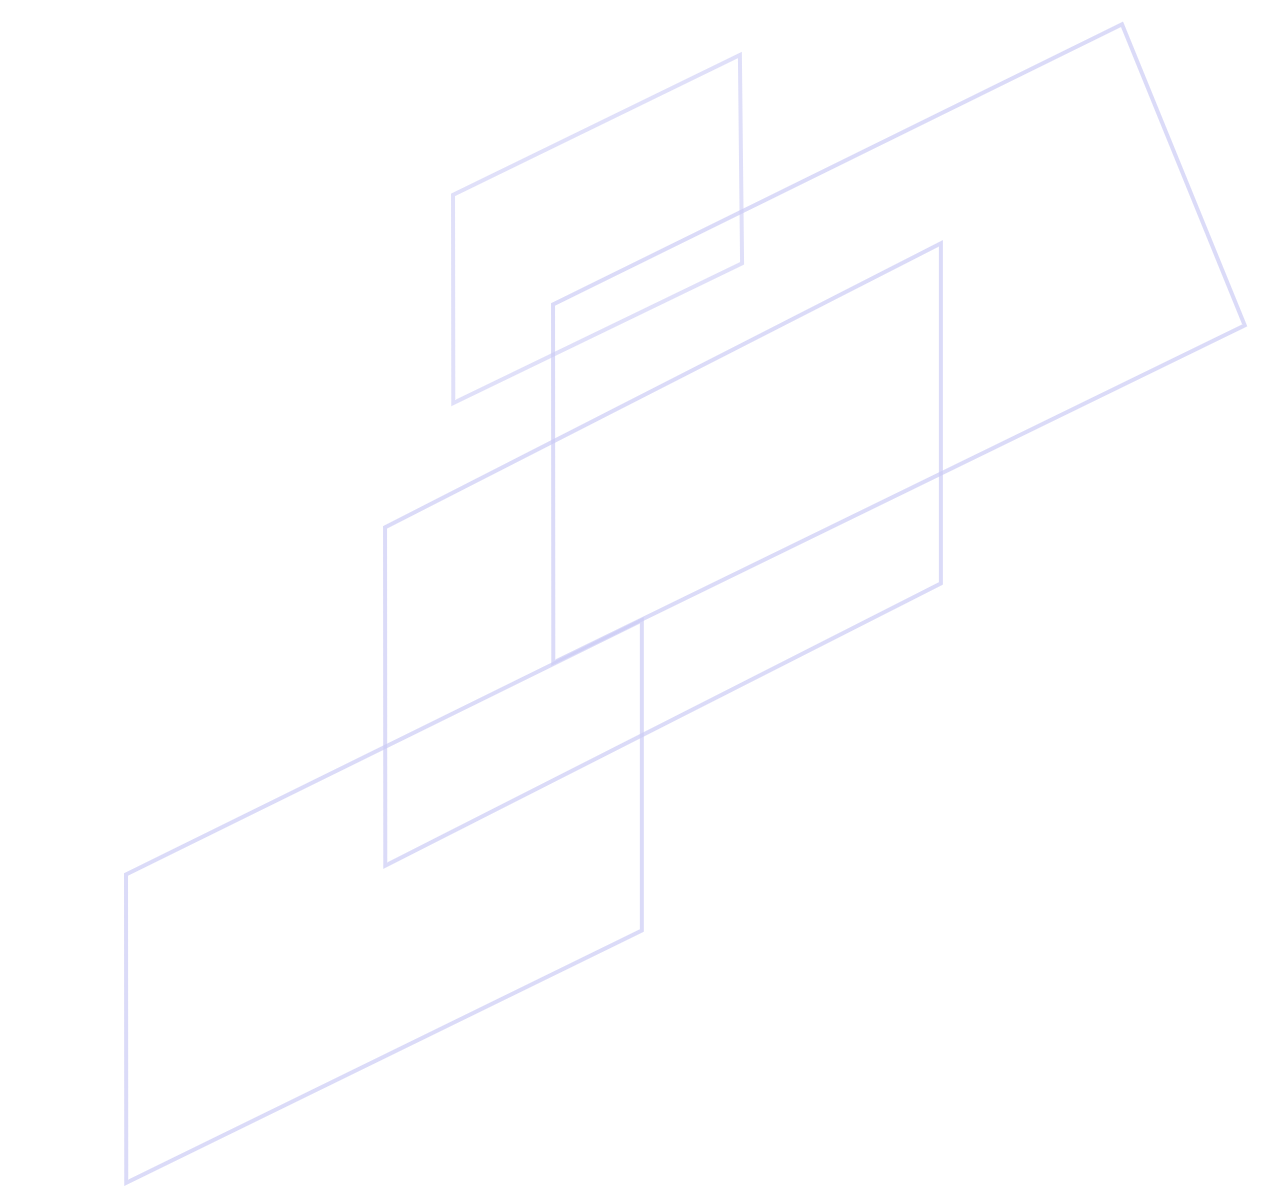
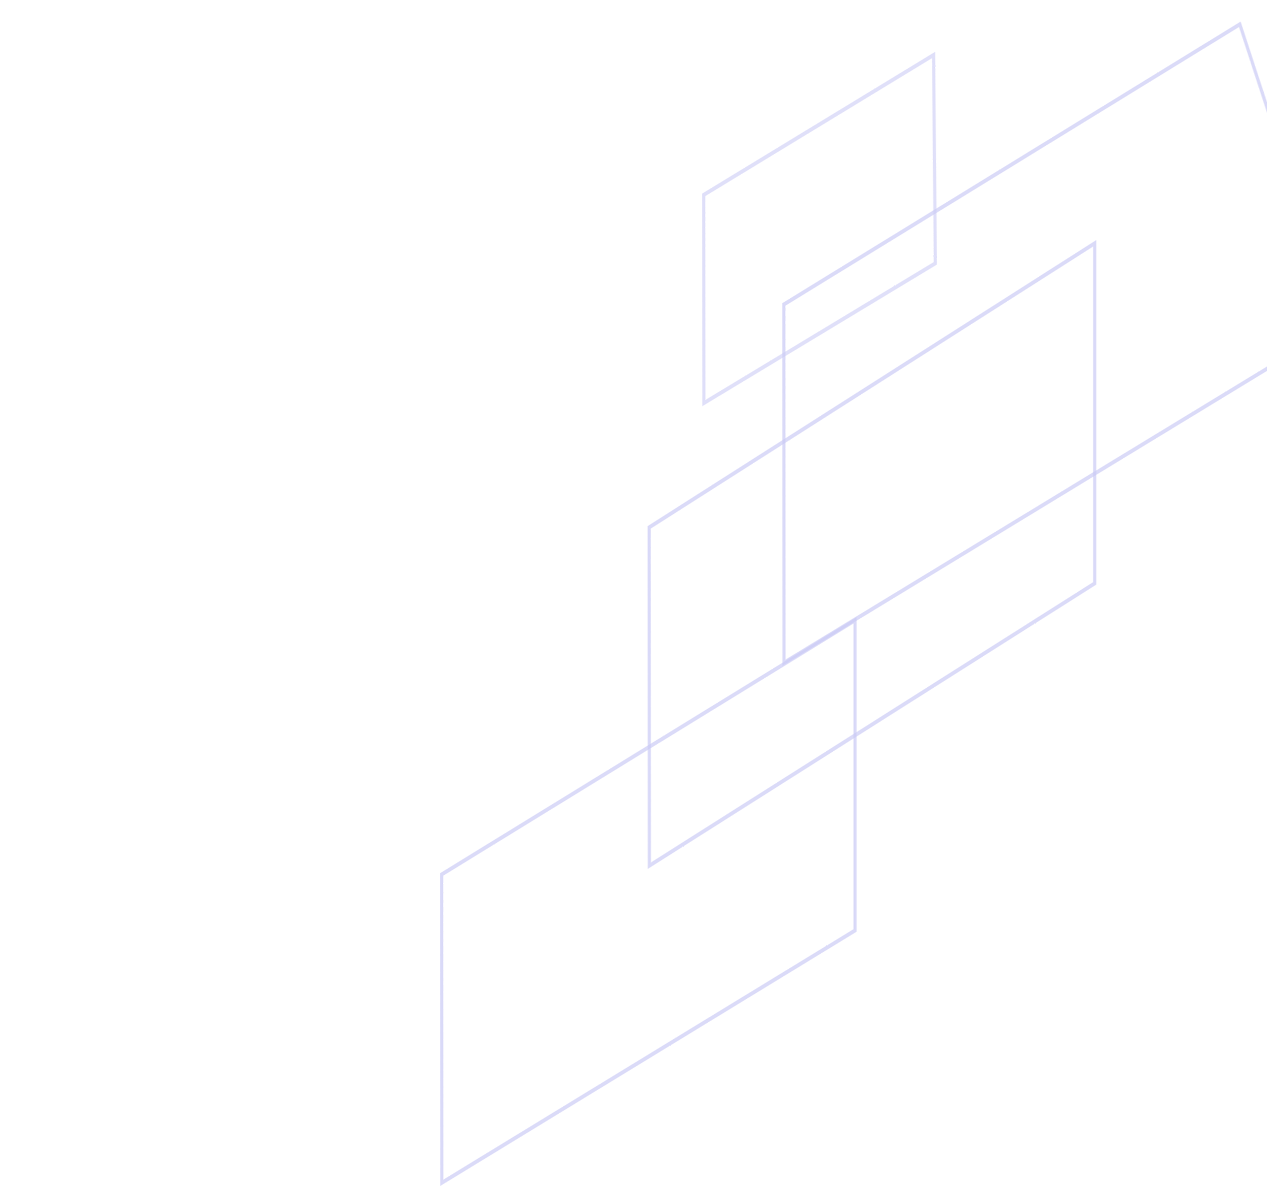
Added Database

diff --git a/quick-hire-server/index.js b/quick-hire-server/index.js
@@ -9,10 +9,37 @@ app.use(cors());
 
 app.use(express.json());
 
+const { MongoClient, ServerApiVersion } = require('mongodb');
+const uri = `mongodb+srv://${process.env.DB_USER}:${process.env.DB_PASSWORD}@cluster0.mrcc0jp.mongodb.net/?appName=Cluster0`;
+
+// Create a MongoClient with a MongoClientOptions object to set the Stable API version
+const client = new MongoClient(uri, {
+    serverApi: {
+        version: ServerApiVersion.v1,
+        strict: true,
+        deprecationErrors: true,
+    }
+});
+
 app.get('/', (req, res) => {
     res.send("Server is Running");
 })
 
-app.listen(port, ()=> {
+
+async function run() {
+    try {
+        // Connect the client to the server	(optional starting in v4.7)
+        await client.connect();
+        // Send a ping to confirm a successful connection
+        await client.db("admin").command({ ping: 1 });
+        console.log("Pinged your deployment. You successfully connected to MongoDB!");
+    } finally {
+        // Ensures that the client will close when you finish/error
+        // await client.close();
+    }
+}
+run().catch(console.dir);
+
+app.listen(port, () => {
     console.log(`Server is Running on Port ${port}`);
 })
